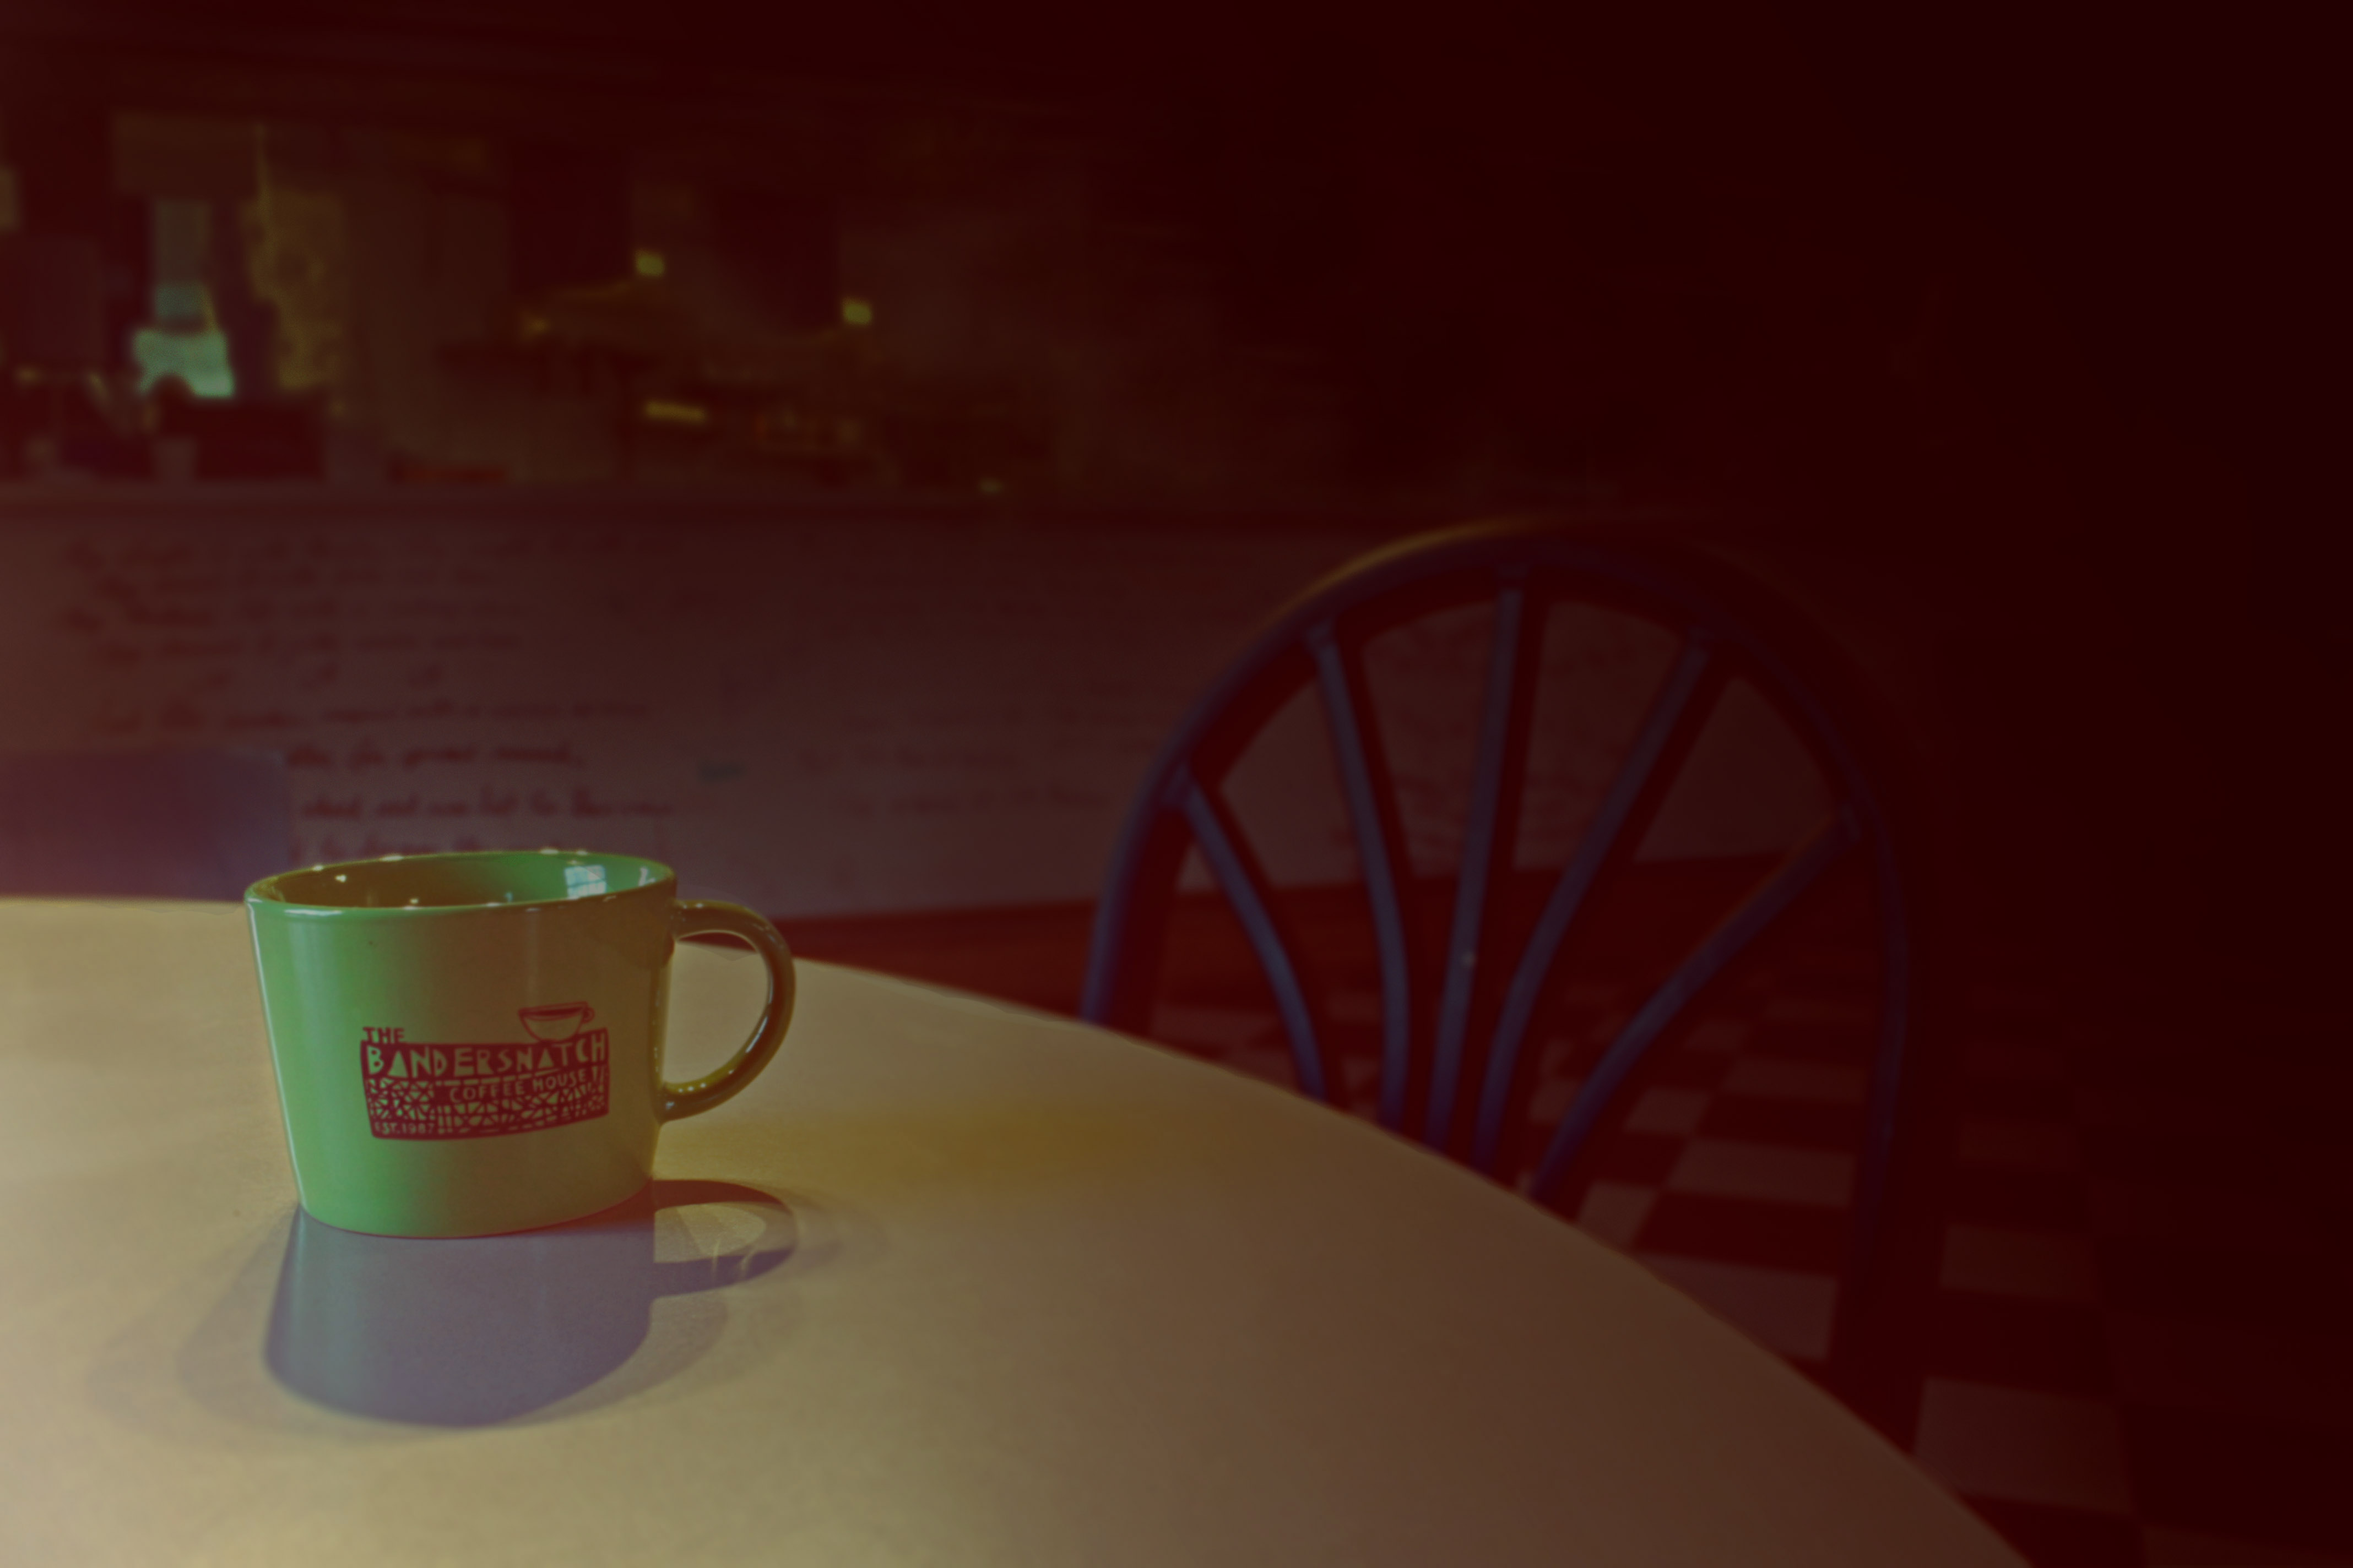
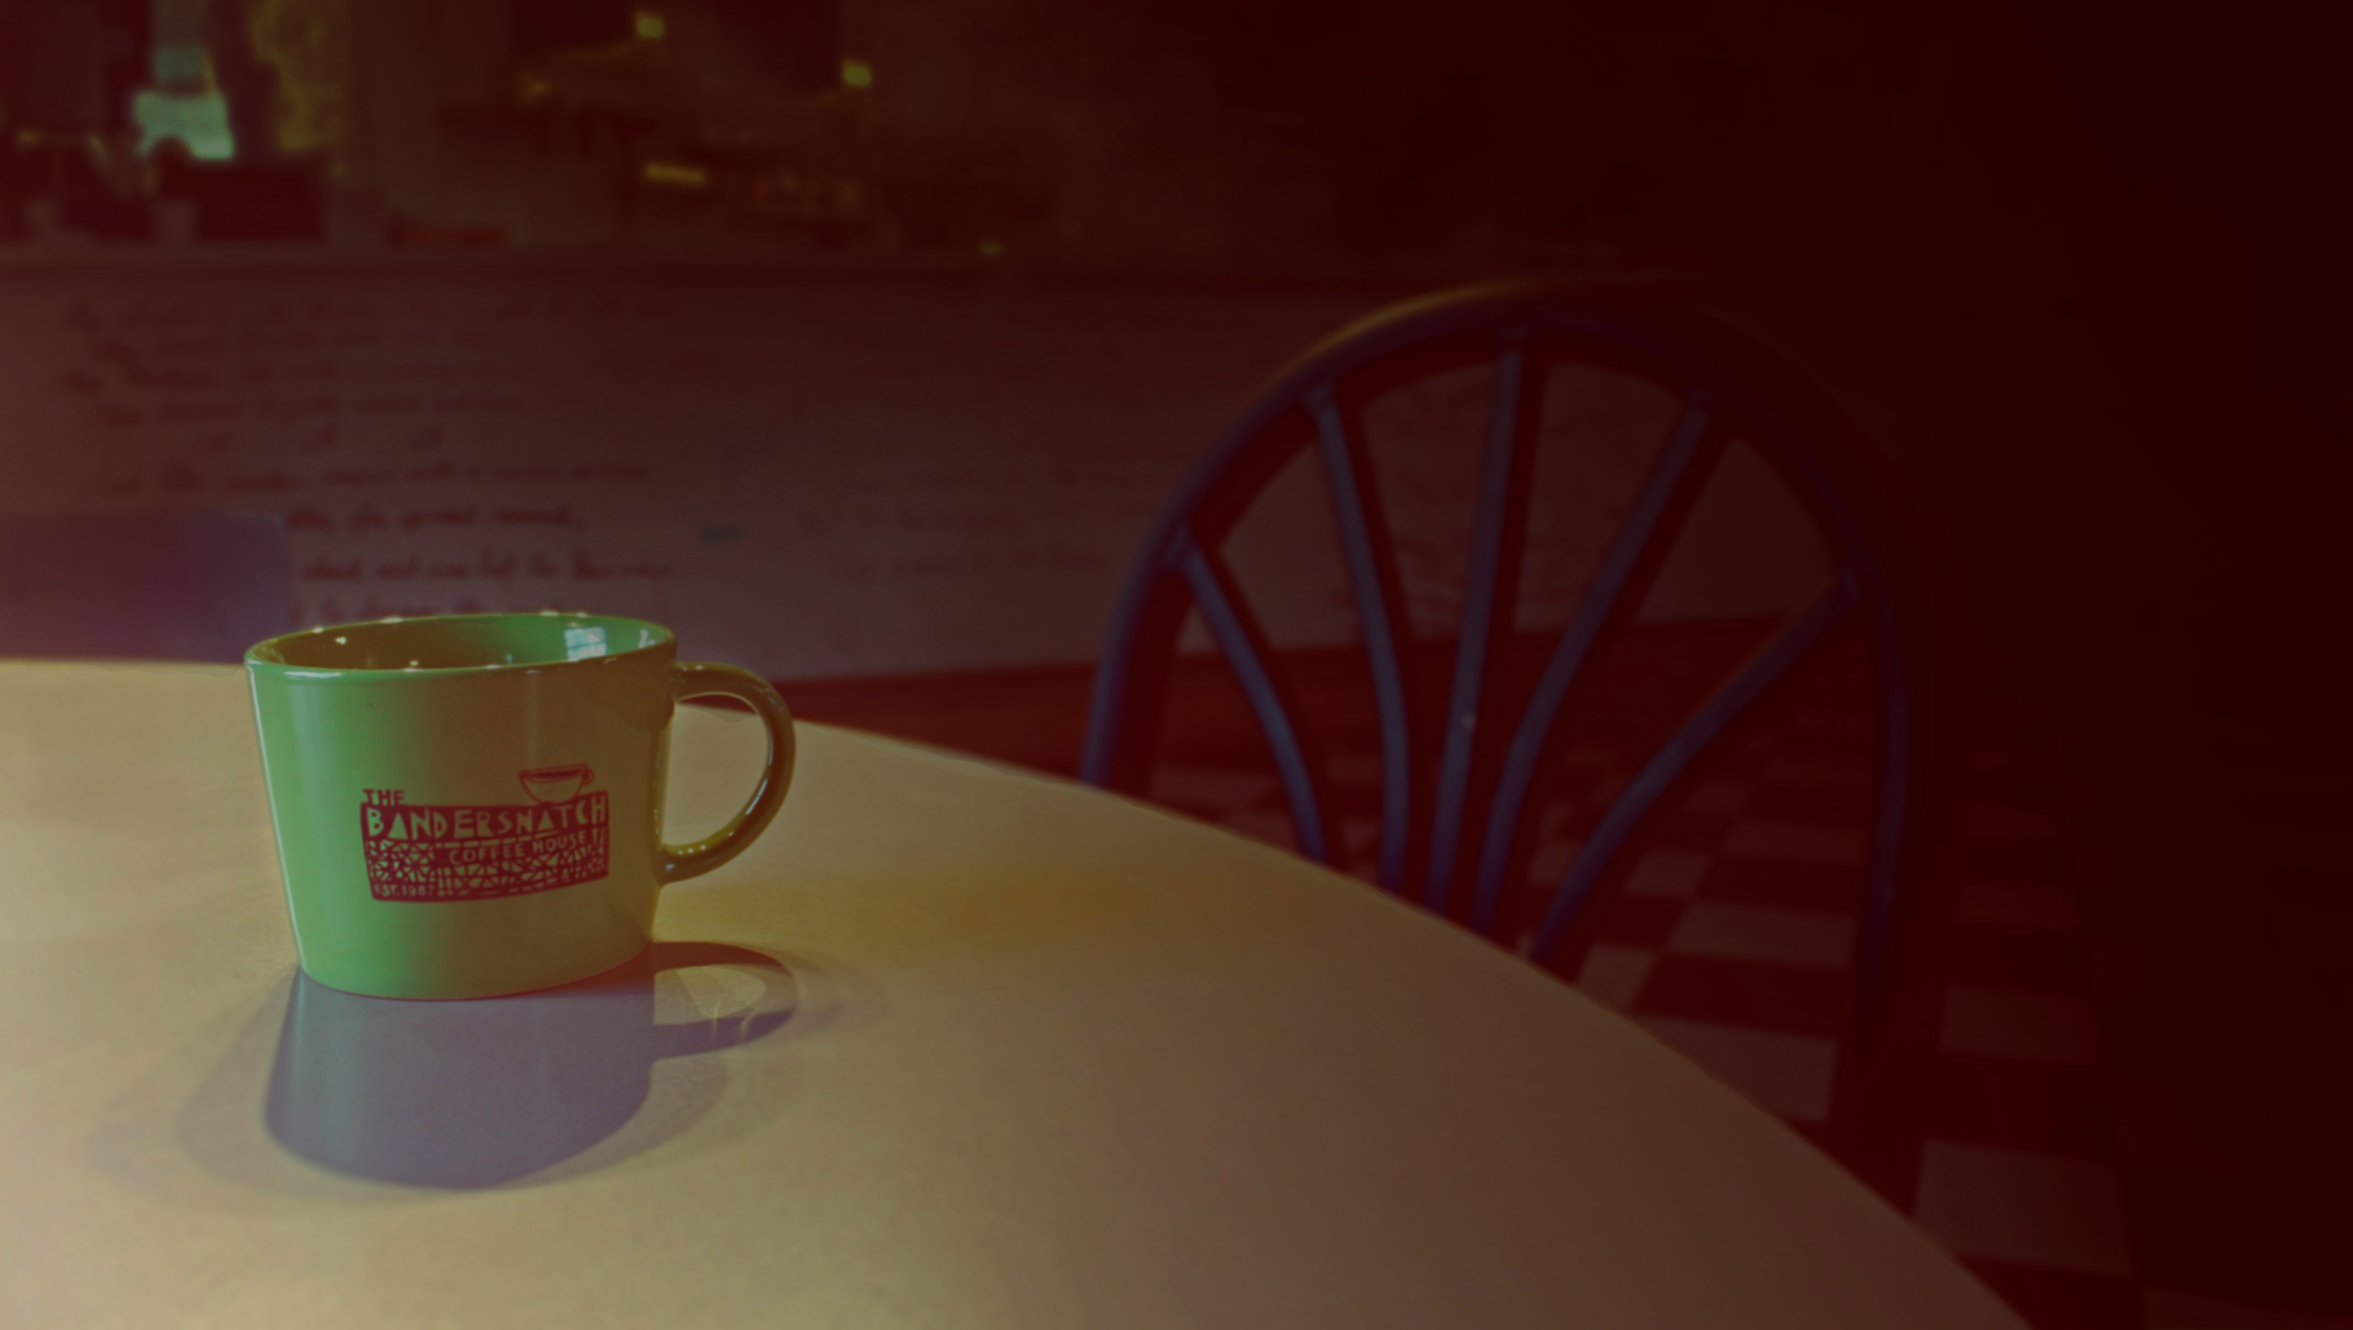
Menu CSS/HTML. Updated images for background.

diff --git a/client/student/menu/menu.css b/client/student/menu/menu.css
@@ -1,12 +1,15 @@
 .menuContainer {
-  background-image: url(/img/lg/menuLG2.jpg);
-  background-size:cover;
+  background-image: url(/img/lg/lightsLG3.jpg);
+  background-size: cover;
   background-repeat:no-repeat;
+  
+ 
+
   
   color: white;
   
 	background-attachment: fixed;
-  position:absolute;
+    position: absolute;
     height:100vh;
     width:100vw;
     top:0px;
@@ -112,4 +115,159 @@
   
 }
 
+/*----------- iPhone 4 ----------- */
+@media only screen and (max-width: 320px) and (max-height:480px){
 
+	.menuContainer{
+	    background-position: 83% 90%;
+		
+	}
+	
+	.menuContainer .middle h1{
+		font-size: 45px;
+		padding: 0px;
+	}
+	
+	.menuContainer .middle .snackBTN{
+		padding: 5px 25px 5px 25px;
+		font-size: 15px;	
+	}
+	
+	.menuContainer .middle .bagelBTN{
+		padding: 5px 25px 5px 25px;
+		font-size: 15px;
+	}
+	
+	.menuContainer .middle .bevsBTN{
+		padding: 5px 25px 5px 25px;
+		font-size: 15px;
+	}
+	
+	.menuContainer .middle .shakesBTN{
+		padding: 5px 25px 5px 25px;
+		font-size: 15px;
+	}
+
+	.menuContainer .middle .cout{
+		padding: 0px 10px 0px 10px;
+	}
+
+}
+
+
+/*----------- iPhone 5 ----------- */
+@media only screen and (max-width: 320px) and (min-height:481px){
+	 
+	.menuContainer{
+	    background-position: 83% 90%;
+	
+	}
+		
+	.menuContainer .middle h1{
+		font-size: 45px;
+		padding: 0px;
+	}
+	
+	.menuContainer .middle .snackBTN{
+		padding: 5px 45px 5px 45px;
+		font-size: 15px;	
+	}
+	
+	.menuContainer .middle .bagelBTN{
+		padding: 5px 45px 5px 45px;
+		font-size: 15px;
+	}
+	
+	.menuContainer .middle .bevsBTN{
+		padding: 5px 45px 5px 45px;
+		font-size: 15px;
+	}
+	
+	.menuContainer .middle .shakesBTN{
+		padding: 5px 45px 5px 45px;
+		font-size: 15px;
+	}
+
+	.menuContainer .middle .cout{
+		padding: 0px 5px 0px 5px;
+		
+	} 
+
+}
+
+/*----------- iPhone 6 ----------- */
+@media only screen and (min-width: 321px) and (max-width:375px){
+	  
+	.menuContainer{
+	    background-position: 83% 90%;
+	
+	}
+	
+	.menuContainer .middle h1{
+		font-size: 45px;
+		padding: 0px;
+	}
+	
+	.menuContainer .middle .snackBTN{
+		padding: 5px 65px 5px 65px;
+		font-size: 16px;	
+	}
+	
+	.menuContainer .middle .bagelBTN{
+		padding: 5px 65px 5px 65px;
+		font-size: 16px;
+	}
+	
+	.menuContainer .middle .bevsBTN{
+		padding: 5px 65px 5px 65px;
+		font-size: 16px;
+	}
+	
+	.menuContainer .middle .shakesBTN{
+		padding: 5px 65px 5px 65px;
+		font-size: 16px;
+	}
+
+	.menuContainer .middle .cout{
+		padding: 0px 10px 0px 10px;
+	}
+
+}
+
+/*----------- iPhone 6 Plus ----------- */
+@media only screen and (min-width: 376px) and (max-width:600px){
+
+	.menuContainer{
+	    background-position: 83% 90%;
+		
+	}
+	
+	.menuContainer .middle h1{
+		font-size: 50px;
+		padding: 0px;
+	}
+	
+	.menuContainer .middle .snackBTN{
+		padding: 5px 50px 5px 50px;
+		font-size: 15px;	
+	}
+	
+	.menuContainer .middle .bagelBTN{
+		padding: 5px 50px 5px 50px;
+		font-size: 15px;
+	}
+	
+	.menuContainer .middle .bevsBTN{
+		padding: 5px 50px 5px 50px;
+		font-size: 15px;
+	}
+	
+	.menuContainer .middle .shakesBTN{
+		padding: 5px 50px 5px 50px;
+		font-size: 15px;
+	}
+
+	.menuContainer .middle .cout{
+		padding: 0px 10px 0px 10px;
+	}	  
+}

diff --git a/client/student/forgot/forgot.css b/client/student/forgot/forgot.css
@@ -16,6 +16,7 @@
 
 .forgotContainer h1{
 	margin: 40px;
+	
 }
 
 .forgotContainer button{
@@ -44,3 +45,44 @@
 	color:yellow;
 }
 
+
+
+/*----------- iPhone 4 ----------- */
+@media only screen and (max-width: 320px) and (max-height:480px){
+	
+	.forgotContainer h1 {
+		font-size: 45px;
+		padding-top: 15px;}
+		
+}	 
+
+/*----------- iPhone 5 ----------- */
+@media only screen and (max-width: 320px) and (min-height:481px){
+
+	.forgotContainer h1 {
+	font-size: 35px;
+    padding-top: 55px;}
+
+}
+
+/*----------- iPhone 6 ----------- */
+@media only screen and (min-width: 321px) and (max-width:375px){
+
+	.forgotContainer h1 {
+	font-size: 45px;
+    padding-top: 90px;}
+
+}	  
+   
+/*----------- iPhone 6 Plus ----------- */
+@media only screen and (min-width: 376px) and (max-width:600px){
+
+	.forgotContainer h1 {
+	font-size: 50px;
+	padding-top: 150px;	  
+
+}
+
+
+
+}

diff --git a/client/student/menu/menu.html b/client/student/menu/menu.html
@@ -4,15 +4,16 @@
     <title>Bandersnatch - Menu</title>
   </head>
   
-   {{#if isInRole 'student'}}
+ 
+  {{#if isInRole 'student'}}
    
-   {{#if appOn}}
+   {{#if appOn}} 
   
   <div class="menuContainer">
        
     <div class="nav">
        <ul>
-          <li>{{currentUser.username}}</li>
+         <li>{{currentUser.username}}</li>
           <li class="Settings">
             <a href="/settings" >
               <img src="img/sm/settingsSM.png" alt="Settings">
@@ -58,6 +59,7 @@
     </div>
   
   </div> 
+
   
   {{else}}
     
